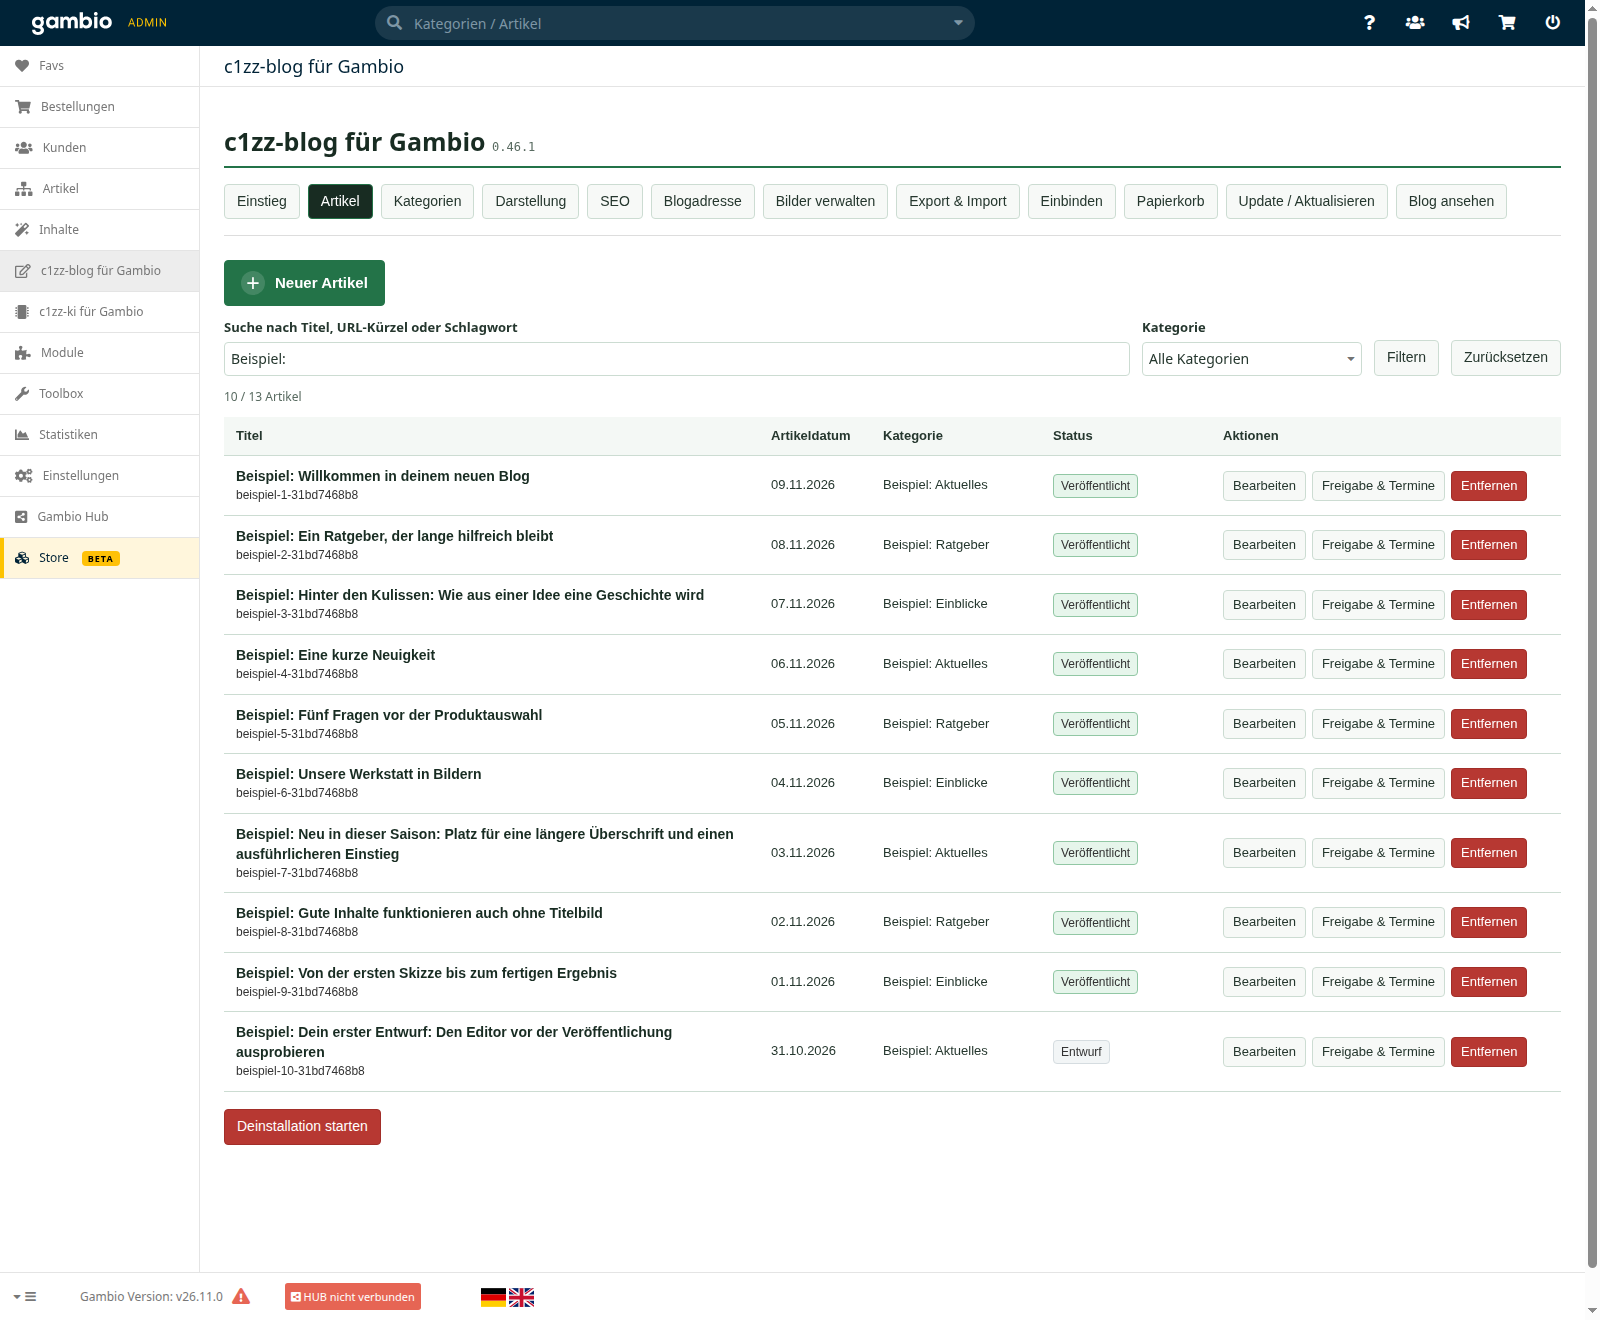
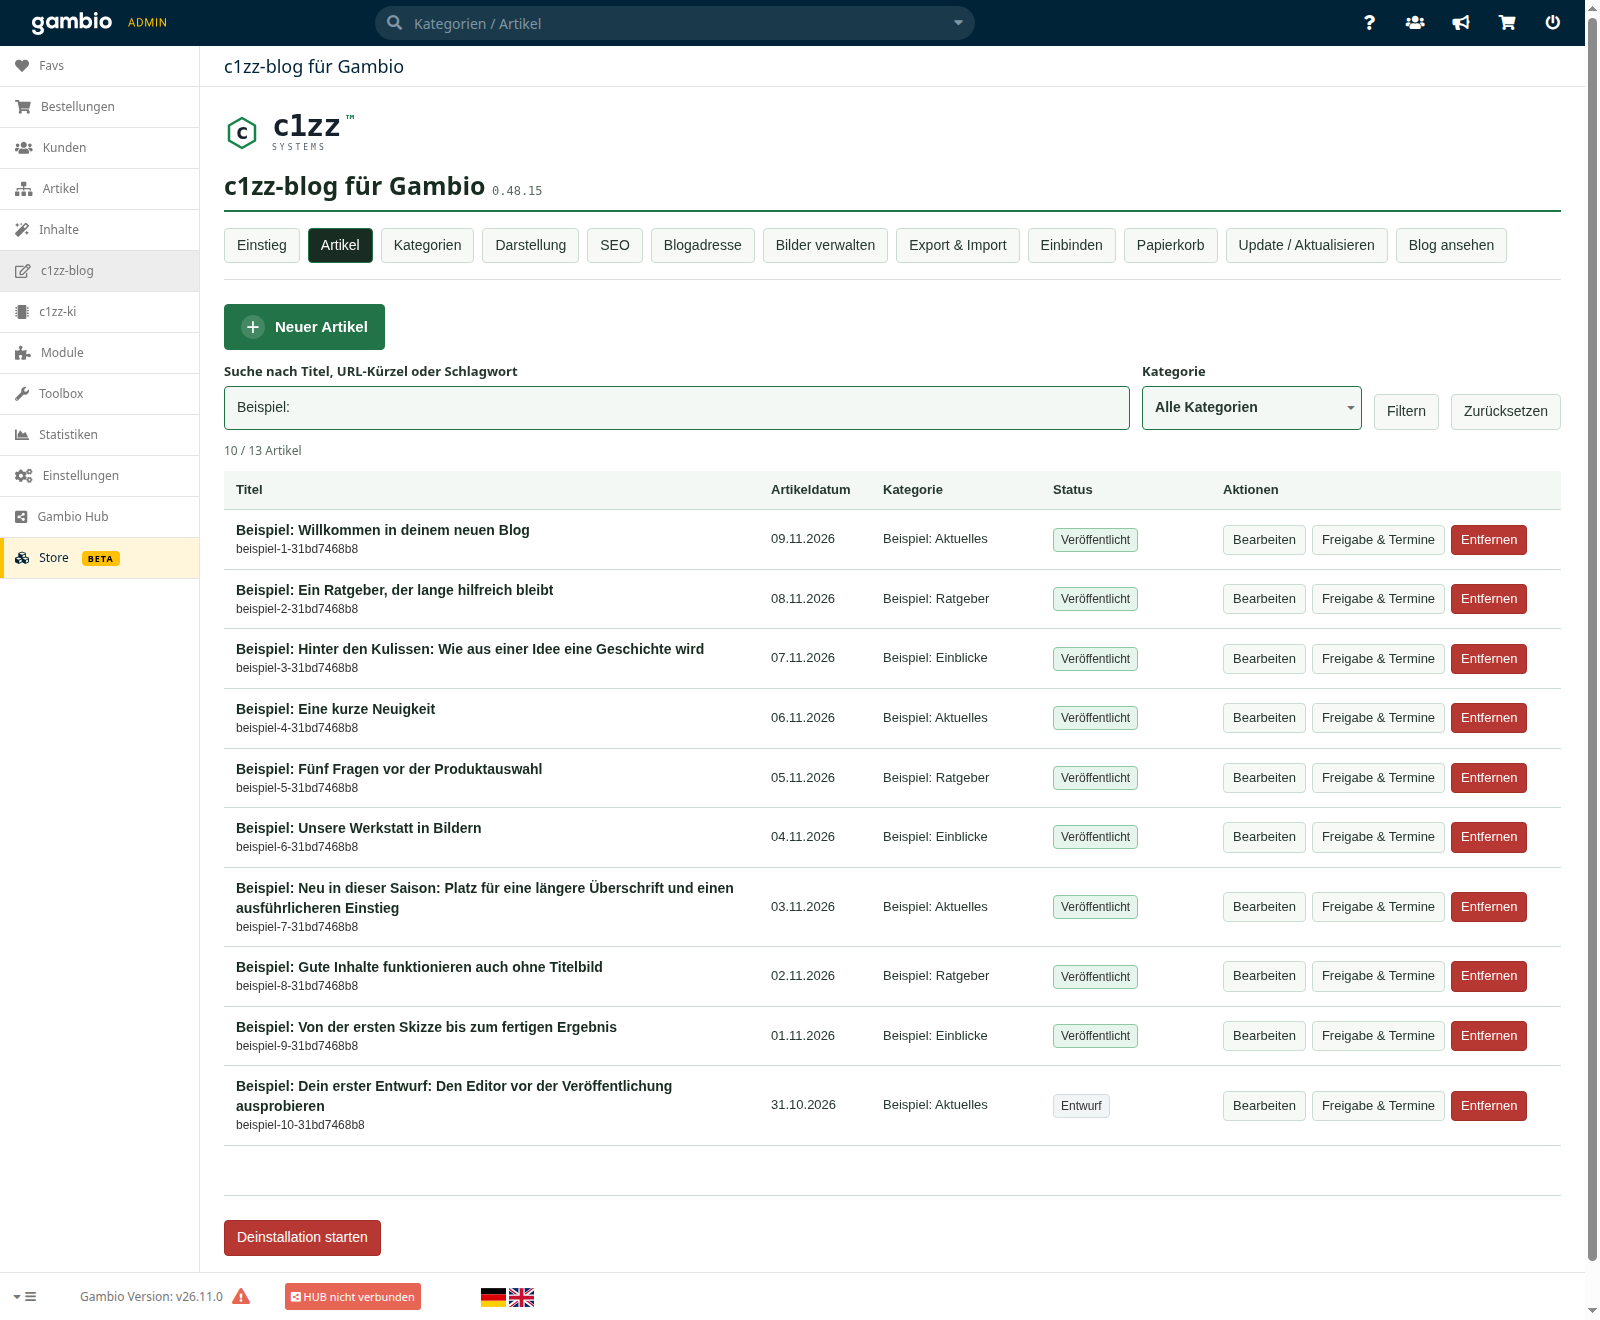
Refresh all screenshots for Blog 0.48.15

diff --git a/docs/BILDERRUNDGANG.md b/docs/BILDERRUNDGANG.md
@@ -2,7 +2,7 @@
 
 Vierzehn Funktionsansichten zeigen den Weg vom Einstieg über das Schreiben und Gestalten bis zum öffentlichen Blog. Klicke auf ein Bild, um die Bedienelemente in Originalgröße zu lesen.
 
-**Aufnahmen vom 10.11.2026, Blog 0.46.1 / KI 0.11.1:** Alle Ansichten wurden im lokalen Gambio-26.11.0-Shop mit Malibu neu aufgenommen. Die Artikelverwaltung ist auf die optionalen Beispielartikel gefiltert; öffentliche Ansichten zeigen Beispiel- und Testinhalte. Für die Aufnahmen wurden weder Artikel noch Einstellungen gespeichert, keine Veröffentlichung gestartet und keine KI-Anfrage ausgelöst. Die Detailbilder zeigen gezielte Ausschnitte. Das Erscheinungsbild hängt vom Theme und den Einstellungen ab. [Teststand](KOMPATIBILITAET.md).
+**Aufnahmen vom 11.11.2026, Blog 0.48.15 / KI 0.12.6:** Alle Ansichten wurden im lokalen Gambio-26.11.0-Shop mit Malibu neu aufgenommen. Die Artikelverwaltung ist auf die optionalen Beispielartikel gefiltert; öffentliche Ansichten zeigen Beispiel- und Testinhalte. Für die Aufnahmen wurden weder Artikel noch Einstellungen gespeichert, keine Veröffentlichung gestartet und keine KI-Anfrage ausgelöst. Die Detailbilder zeigen gezielte Ausschnitte. Das Erscheinungsbild hängt vom Theme und den Einstellungen ab. [Teststand](KOMPATIBILITAET.md).
 
 [Zur Projektübersicht](../README.md) · [Zur Installation](INSTALLATION.md)
 
@@ -10,9 +10,9 @@ Vierzehn Funktionsansichten zeigen den Weg vom Einstieg über das Schreiben und 
 |---|---|
 | [1. Einstieg](#ansicht-1) | Geführter Einstieg mit vier Schritten und Verwaltung der Beispielartikel |
 | [2. Artikelverwaltung](#ansicht-2) | Artikelübersicht mit Suche, Kategorien, Veröffentlichungsstatus und Aktionen |
-| [3. Artikeldaten und SEO](#ansicht-3) | Artikelformular mit Titel, Kategorie, Kurzbeschreibung und Suchmaschinenfeldern |
+| [3. Artikeldaten und SEO](#ansicht-3) | Artikelformular mit Titel, Kategorie, Kurzbeschreibung und URL-Kürzel |
 | [4. Inhalte schreiben](#ansicht-4) | Nativer Schreibeditor mit Beispieltext, Formatierungsleiste und Entwurfsaktionen |
-| [5. Kategorien verwalten](#ansicht-5) | Kategorieformular mit SEO-Feldern und Liste bestehender Kategorien |
+| [5. Kategorien verwalten](#ansicht-5) | Kategorieformular mit Namen, URL-Kürzel und SEO-Feldern |
 | [6. Freigabe, Termine und Versionen](#ansicht-6) | Freigabe eines privaten Entwurfs, Terminplanung, Aufgabenhinweis und gespeicherte Version |
 | [7. Darstellung mit Vorschau](#ansicht-7) | Grafischer Editor mit Grid-Vorschau und Layoutoptionen für Desktop |
 | [8. Öffentlicher Blog auf Desktop](#ansicht-8) | Öffentliches Bloggrid im vollständigen Malibu-Shoplayout |
@@ -45,7 +45,7 @@ Die Übersicht verbindet Suche, Kategoriefilter und Status mit den Aktionen **Be
 
 Im oberen Teil des Artikelformulars pflegst du Titel, Datum, Kategorie, Kurzbeschreibung, Schlagwörter und URL-Kürzel. SEO-Titel und Meta-Description stehen im selben Formular. Speichern aktualisiert den Entwurf; die Veröffentlichung ist ein eigener Schritt.
 
-[![Artikelformular mit Titel, Kategorie, Kurzbeschreibung und Suchmaschinenfeldern](images/artikel-angaben.png)](images/artikel-angaben.png)
+[![Artikelformular mit Titel, Kategorie, Kurzbeschreibung und URL-Kürzel](images/artikel-angaben.png)](images/artikel-angaben.png)
 
 <a id="ansicht-4"></a>
 
@@ -61,7 +61,7 @@ Dieser Ausschnitt zeigt den Inhaltsbereich weiter unten im selben Formular: nati
 
 Eigene Kategorien lassen sich unabhängig von Artikeln anlegen. Name, URL-Kürzel und Suchmaschinenangaben gehören zur Kategorie. Unter dem Formular stehen die bereits vorhandenen Beispielkategorien.
 
-[![Kategorieformular mit SEO-Feldern und Liste bestehender Kategorien](images/kategorien.png)](images/kategorien.png)
+[![Kategorieformular mit Namen, URL-Kürzel und SEO-Feldern](images/kategorien.png)](images/kategorien.png)
 
 <a id="ansicht-6"></a>
 
@@ -75,7 +75,7 @@ Der Ausschnitt zeigt die Freigabe eines gespeicherten Entwurfs, die Terminplanun
 
 ## 7. Darstellung mit Vorschau
 
-Im grafischen Editor wählst du Geräteansicht und Bereich, zum Beispiel Layout, Karte, Bild oder Text. Hier zeigt der Ausschnitt eine **Grid-Vorschau** mit drei Spalten und den passenden Layoutoptionen. Die Vorschau wurde für die Aufnahme geöffnet; gespeicherte Shop-Einstellungen wurden dabei nicht verändert.
+Im grafischen Editor wählst du Geräteansicht und Bereich, zum Beispiel Layout, Karte, Bild oder Text. Hier zeigt der Ausschnitt eine **Grid-Vorschau** mit drei Spalten sowie die Gesamtbreite und maximale Breite des Blogs. Die neuen Bereiche **Suche** und **Artikel** sind direkt auswählbar. Die Vorschau wurde für die Aufnahme geöffnet; gespeicherte Shop-Einstellungen wurden dabei nicht verändert.
 
 [![Grafischer Editor mit Grid-Vorschau und Layoutoptionen für Desktop](images/darstellung.png)](images/darstellung.png)
 
@@ -125,16 +125,16 @@ Hinweisfelder mit grünem Rand heben die Erläuterungen zur Darstellung hervor. 
 
 ## 13. Name und Version im GX26-Modul-Center
 
-**c1zz-blog für Gambio** wird mit dem tatsächlichen Modulstand **0.46.1** angezeigt. Die Kennzeichnung **rc.1** gehört zur GitHub-Veröffentlichung.
+**c1zz-blog für Gambio** wird mit dem tatsächlichen Modulstand **0.48.15** angezeigt. Die Kennzeichnung **rc.1** gehört zur GitHub-Veröffentlichung.
 
-[![GX26-Modul-Center mit einheitlichem Namen und Version 0.46.1](images/modul-center.png)](images/modul-center.png)
+[![GX26-Modul-Center mit einheitlichem Namen und Version 0.48.15](images/modul-center.png)](images/modul-center.png)
 
 <a id="ansicht-14"></a>
 
 ## 14. Update / Aktualisieren
 
-Die neue Aufnahme mit Blog **0.47.0** zeigt die automatische Prüfung nach der Adminanmeldung, die gespeicherte Kanalauswahl und die inaktive Speichertaste bei unveränderten Einstellungen. Der reproduzierbar gesetzte Cachezustand zeigt „aktuell“; es wurde kein Update gestartet. „Blog ansehen“ bleibt in der Navigation; die Deinstallation steht mit Abstand am Seitenende. Abgeschlossene Updates werden kompakt mit aufklappbaren Details angezeigt.
+Die Aufnahme mit Blog **0.48.15** zeigt den vorhandenen Prüfstatus, die gespeicherte Testversionsauswahl und den abgeschlossenen Updateablauf. Für die Aufnahme wurde weder erneut gesucht noch ein Update gestartet. Die Vorbereitung des nächsten Releases ist hier noch nicht enthalten.
 
 [![Aktueller Versionsstatus und abgeschlossener Updateablauf](images/aktualisieren.png)](images/aktualisieren.png)
 
-Die Aufnahmen zeigen den ausdrücklich genannten älteren Modulstand. Neue Logo-, Eingabe- und Layoutoptionen dieses Releases sind in den [Release Notes](../RELEASE_NOTES.md) beschrieben.
+Alle 14 Aufnahmen zeigen den veröffentlichten Modulstand 0.48.15. Aufnahmedatum, Versionen und Bildprüfsummen stehen in [screenshots.json](screenshots.json).

diff --git a/README.md b/README.md
@@ -92,7 +92,7 @@ Die grafische Darstellung und **Alle Einstellungen** bearbeiten dieselben Werte.
 
 **Blogadressen bleiben steuerbar:** Beim Pfadwechsel entscheidest du, ob die bisherige Adresse weiterleiten soll. Gespeicherte Weiterleitungen kannst du unter **Blogadresse** ändern oder löschen. Hilfetexte sind im gemeinsamen c1zz-systems-Stil hervorgehoben. Entfernen, Löschen und Zurücksetzen eigener Werte sind rot markiert.
 
-Die bisherigen Funktionsansichten wurden am 10.11.2026 mit **Blog 0.46.1 und KI 0.11.1** im lokalen GX26-Testshop mit Malibu erneuert. Sie zeigen Beispiel- und Testinhalte sowie die aktuelle Navigation, Speicherleisten und Updateverwaltung. Der [Bilderrundgang](docs/BILDERRUNDGANG.md) zeigt auch den **mobilen Slider**. Das Aussehen hängt von deinem Theme und deinen Einstellungen ab.
+Alle 14 Funktionsansichten wurden am **11.11.2026 mit Blog 0.48.15 und KI 0.12.6** im lokalen GX26-Testshop mit Malibu neu aufgenommen. Sie zeigen Beispiel- und Testinhalte sowie die aktuelle Navigation, Speicherleisten und Updateverwaltung. Der [Bilderrundgang](docs/BILDERRUNDGANG.md) zeigt auch den **mobilen Slider**. Das Aussehen hängt von deinem Theme und deinen Einstellungen ab.
 
 ## Was ist tatsächlich geprüft?
 
